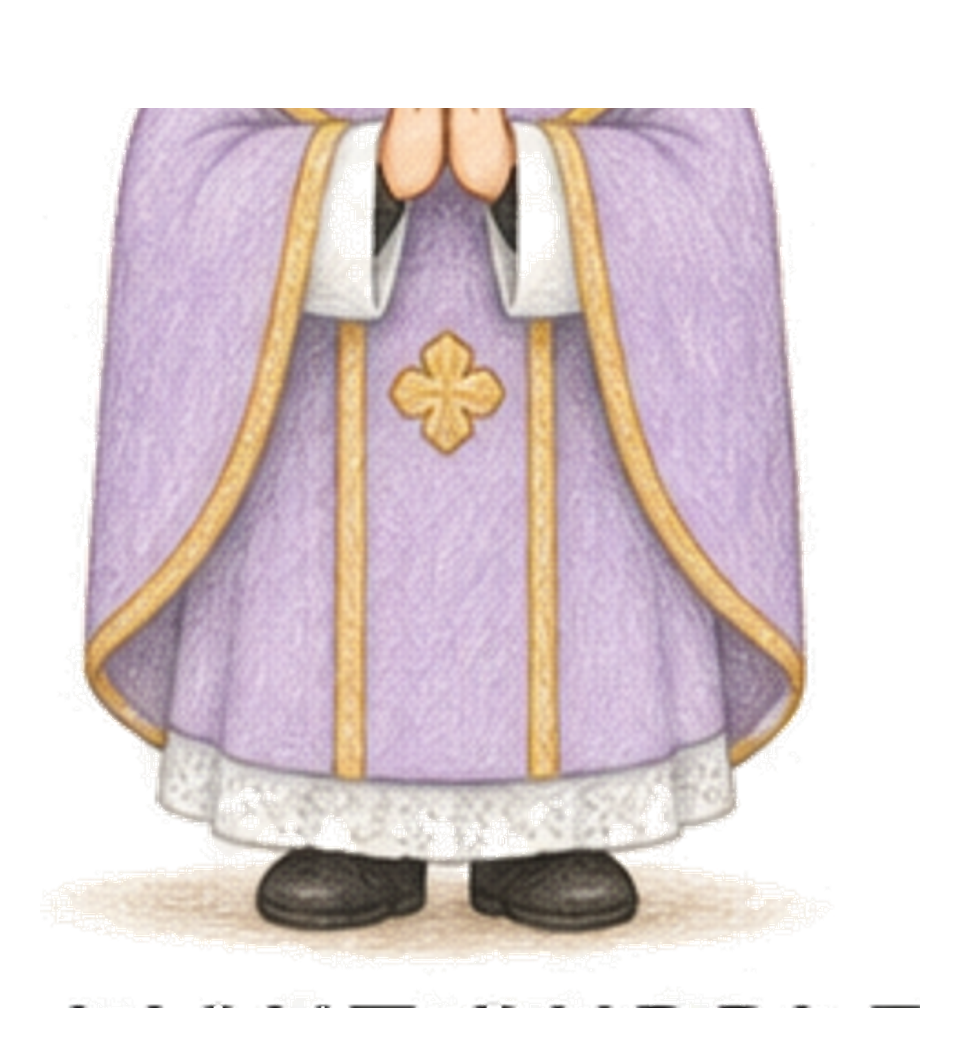
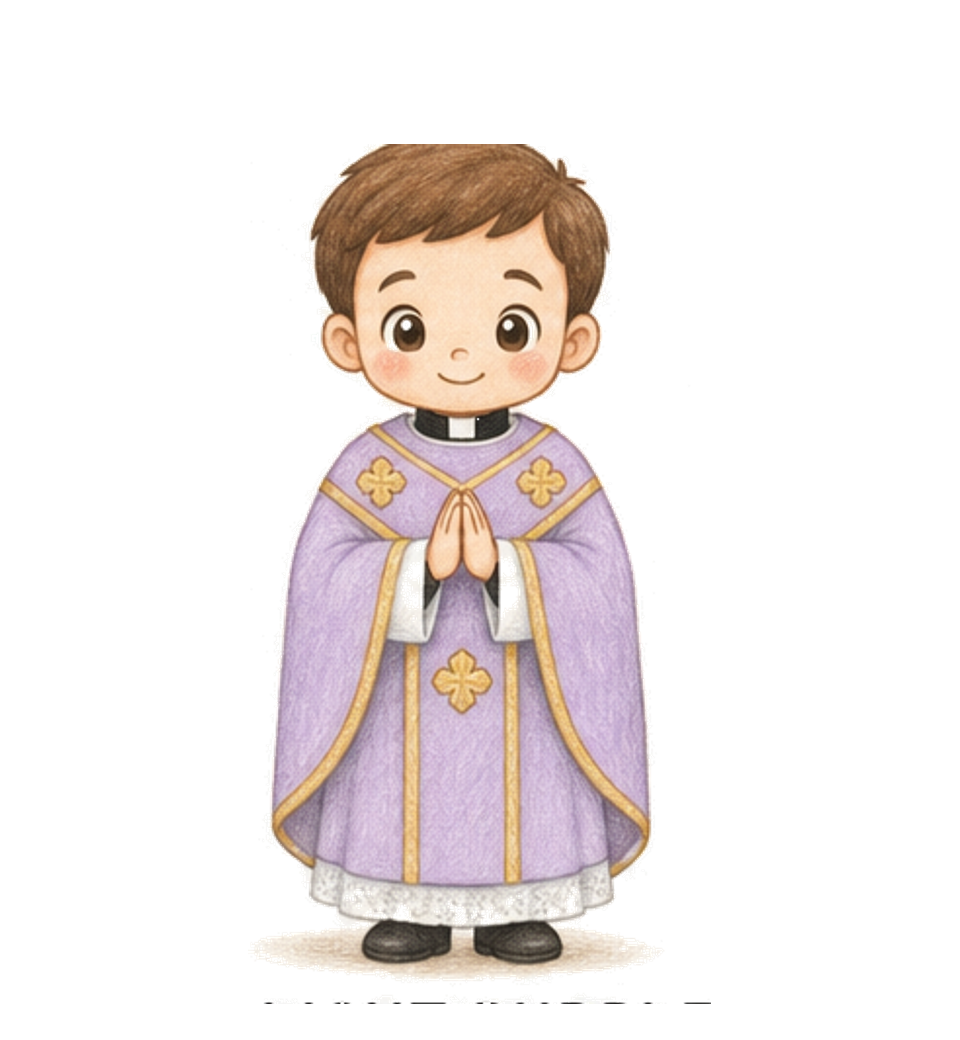
fix: full-body vestment sprites (no cover crop) and show full image in UI
Use global scale fit inside canvas; remove object-bottom that clipped heads.

diff --git a/src/components/liturgical-vestments/PriestVestmentFigure.tsx b/src/components/liturgical-vestments/PriestVestmentFigure.tsx
@@ -3,6 +3,7 @@
 import {
   VESTMENT_CHARACTER_IMAGES,
   VESTMENT_DEFAULT_COLOR,
+  VESTMENT_CANVAS,
 } from "@/lib/liturgical-vestments-assets";
 import type { VestmentColor } from "@/lib/liturgical-vestments-game";
 import Image from "next/image";
@@ -21,15 +22,15 @@ export function PriestVestmentFigure({ chasubleColor }: Props) {
       : `Priest wearing ${displayColor} liturgical vestments`;
 
   return (
-    <div className="flex justify-center overflow-visible pt-1">
+    <div className="flex justify-center overflow-visible py-1">
       <Image
         src={src}
         alt={alt}
-        width={960}
-        height={1040}
+        width={VESTMENT_CANVAS.width}
+        height={VESTMENT_CANVAS.height}
         unoptimized
-        className="h-auto max-h-[min(72vh,580px)] w-auto max-w-full object-contain object-bottom"
-        sizes="(max-width: 640px) 90vw, 420px"
+        className="h-auto w-auto max-h-[min(75vh,620px)] max-w-full object-contain"
+        sizes="(max-width: 640px) 92vw, 440px"
         priority
         draggable={false}
       />
